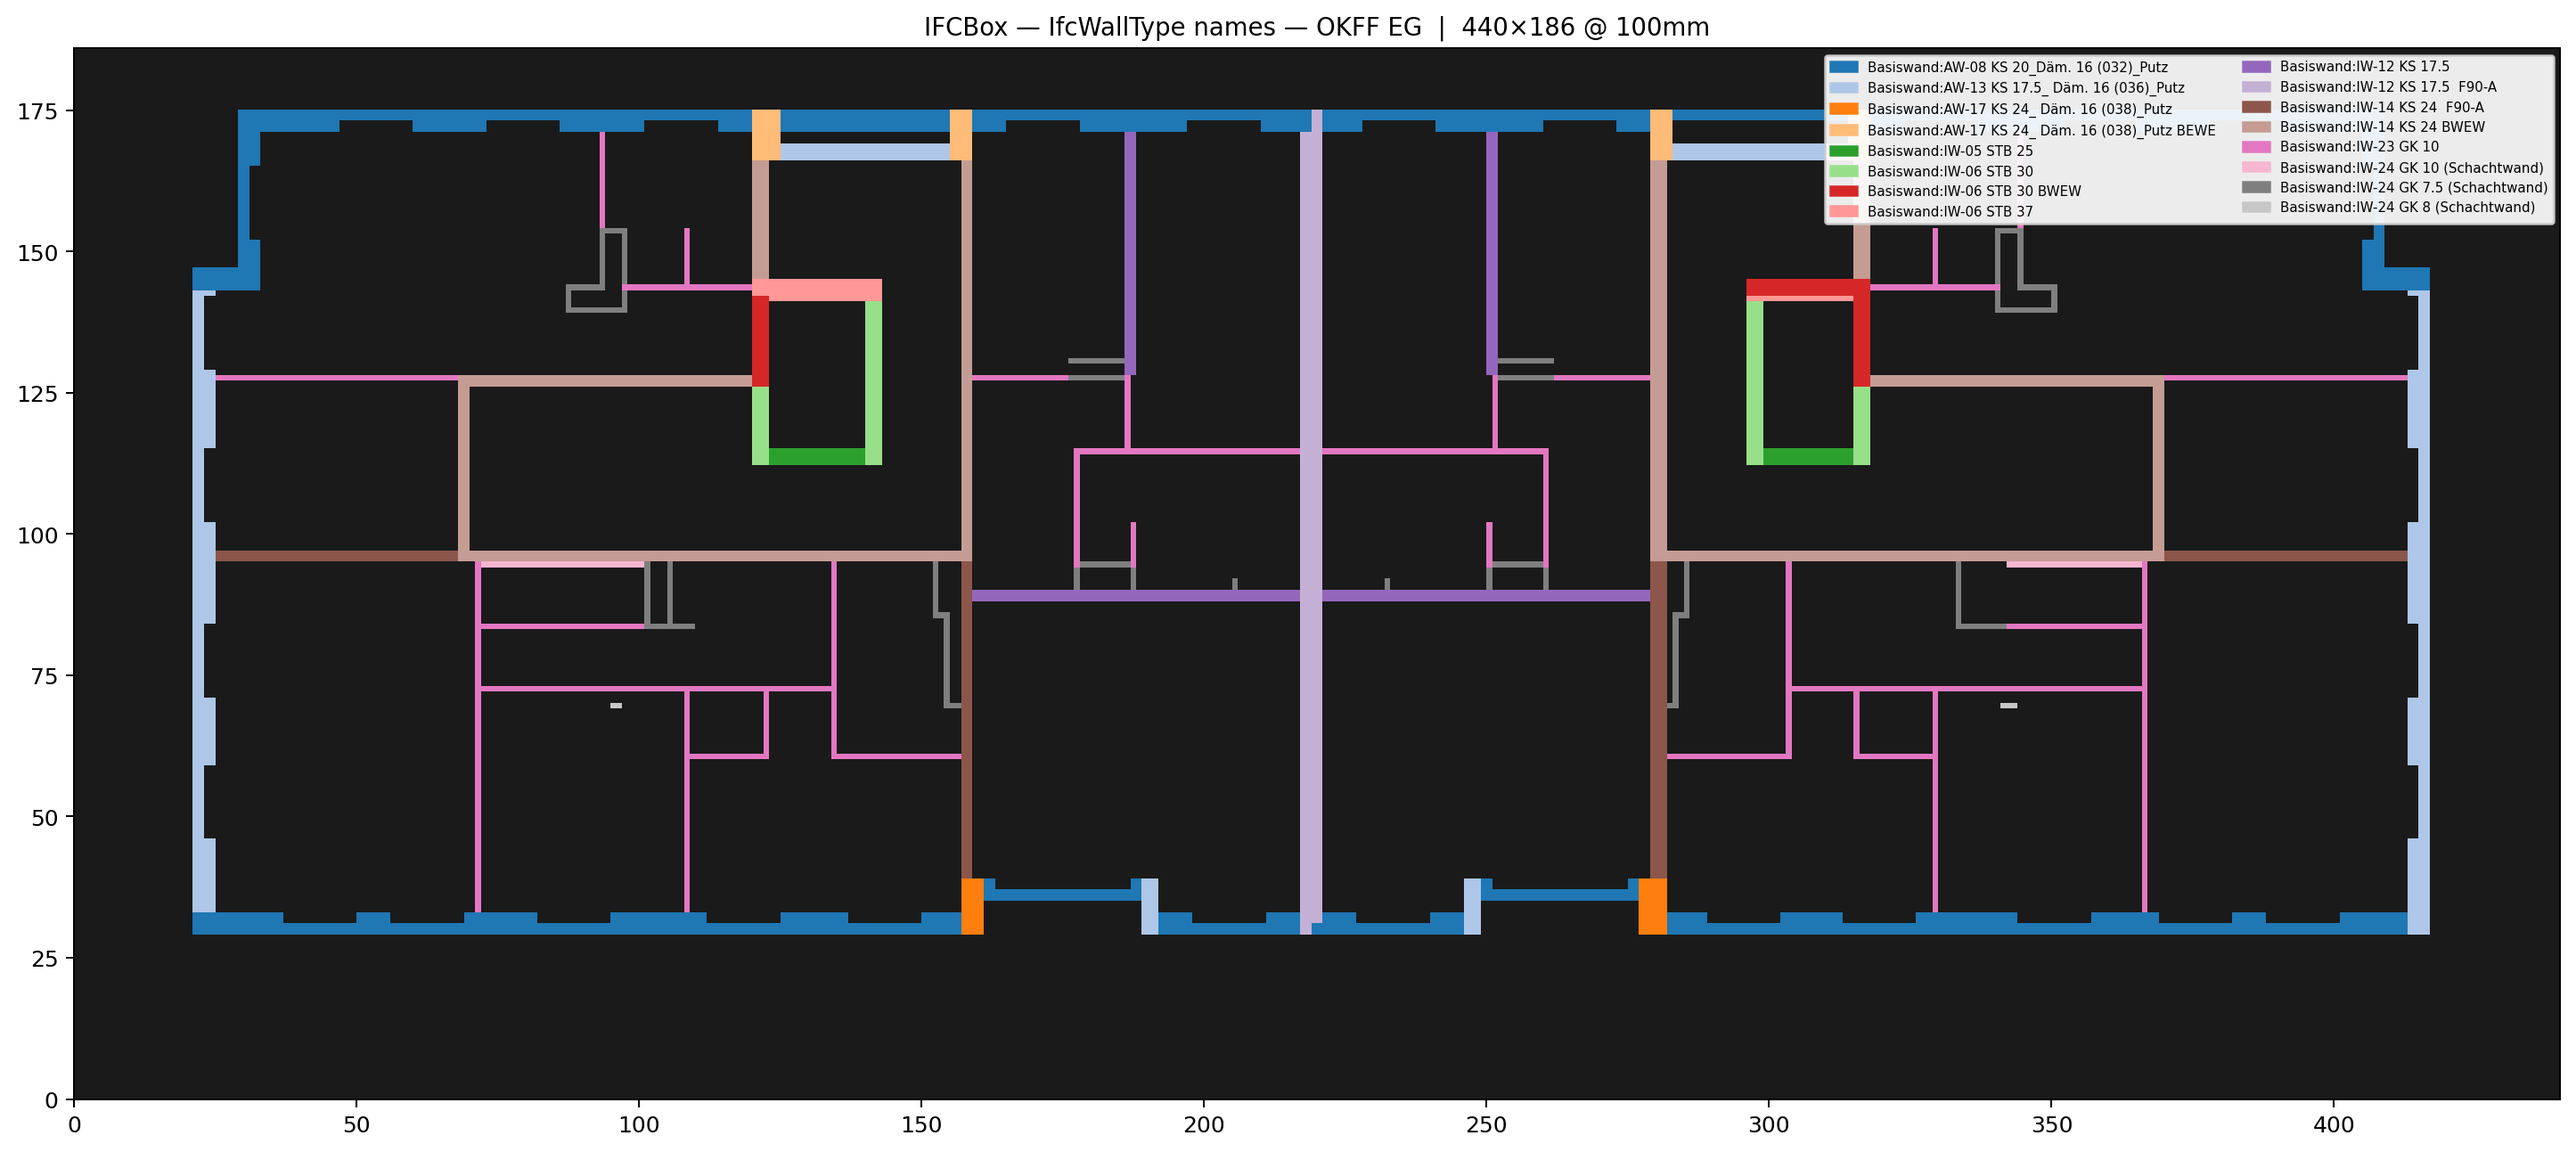
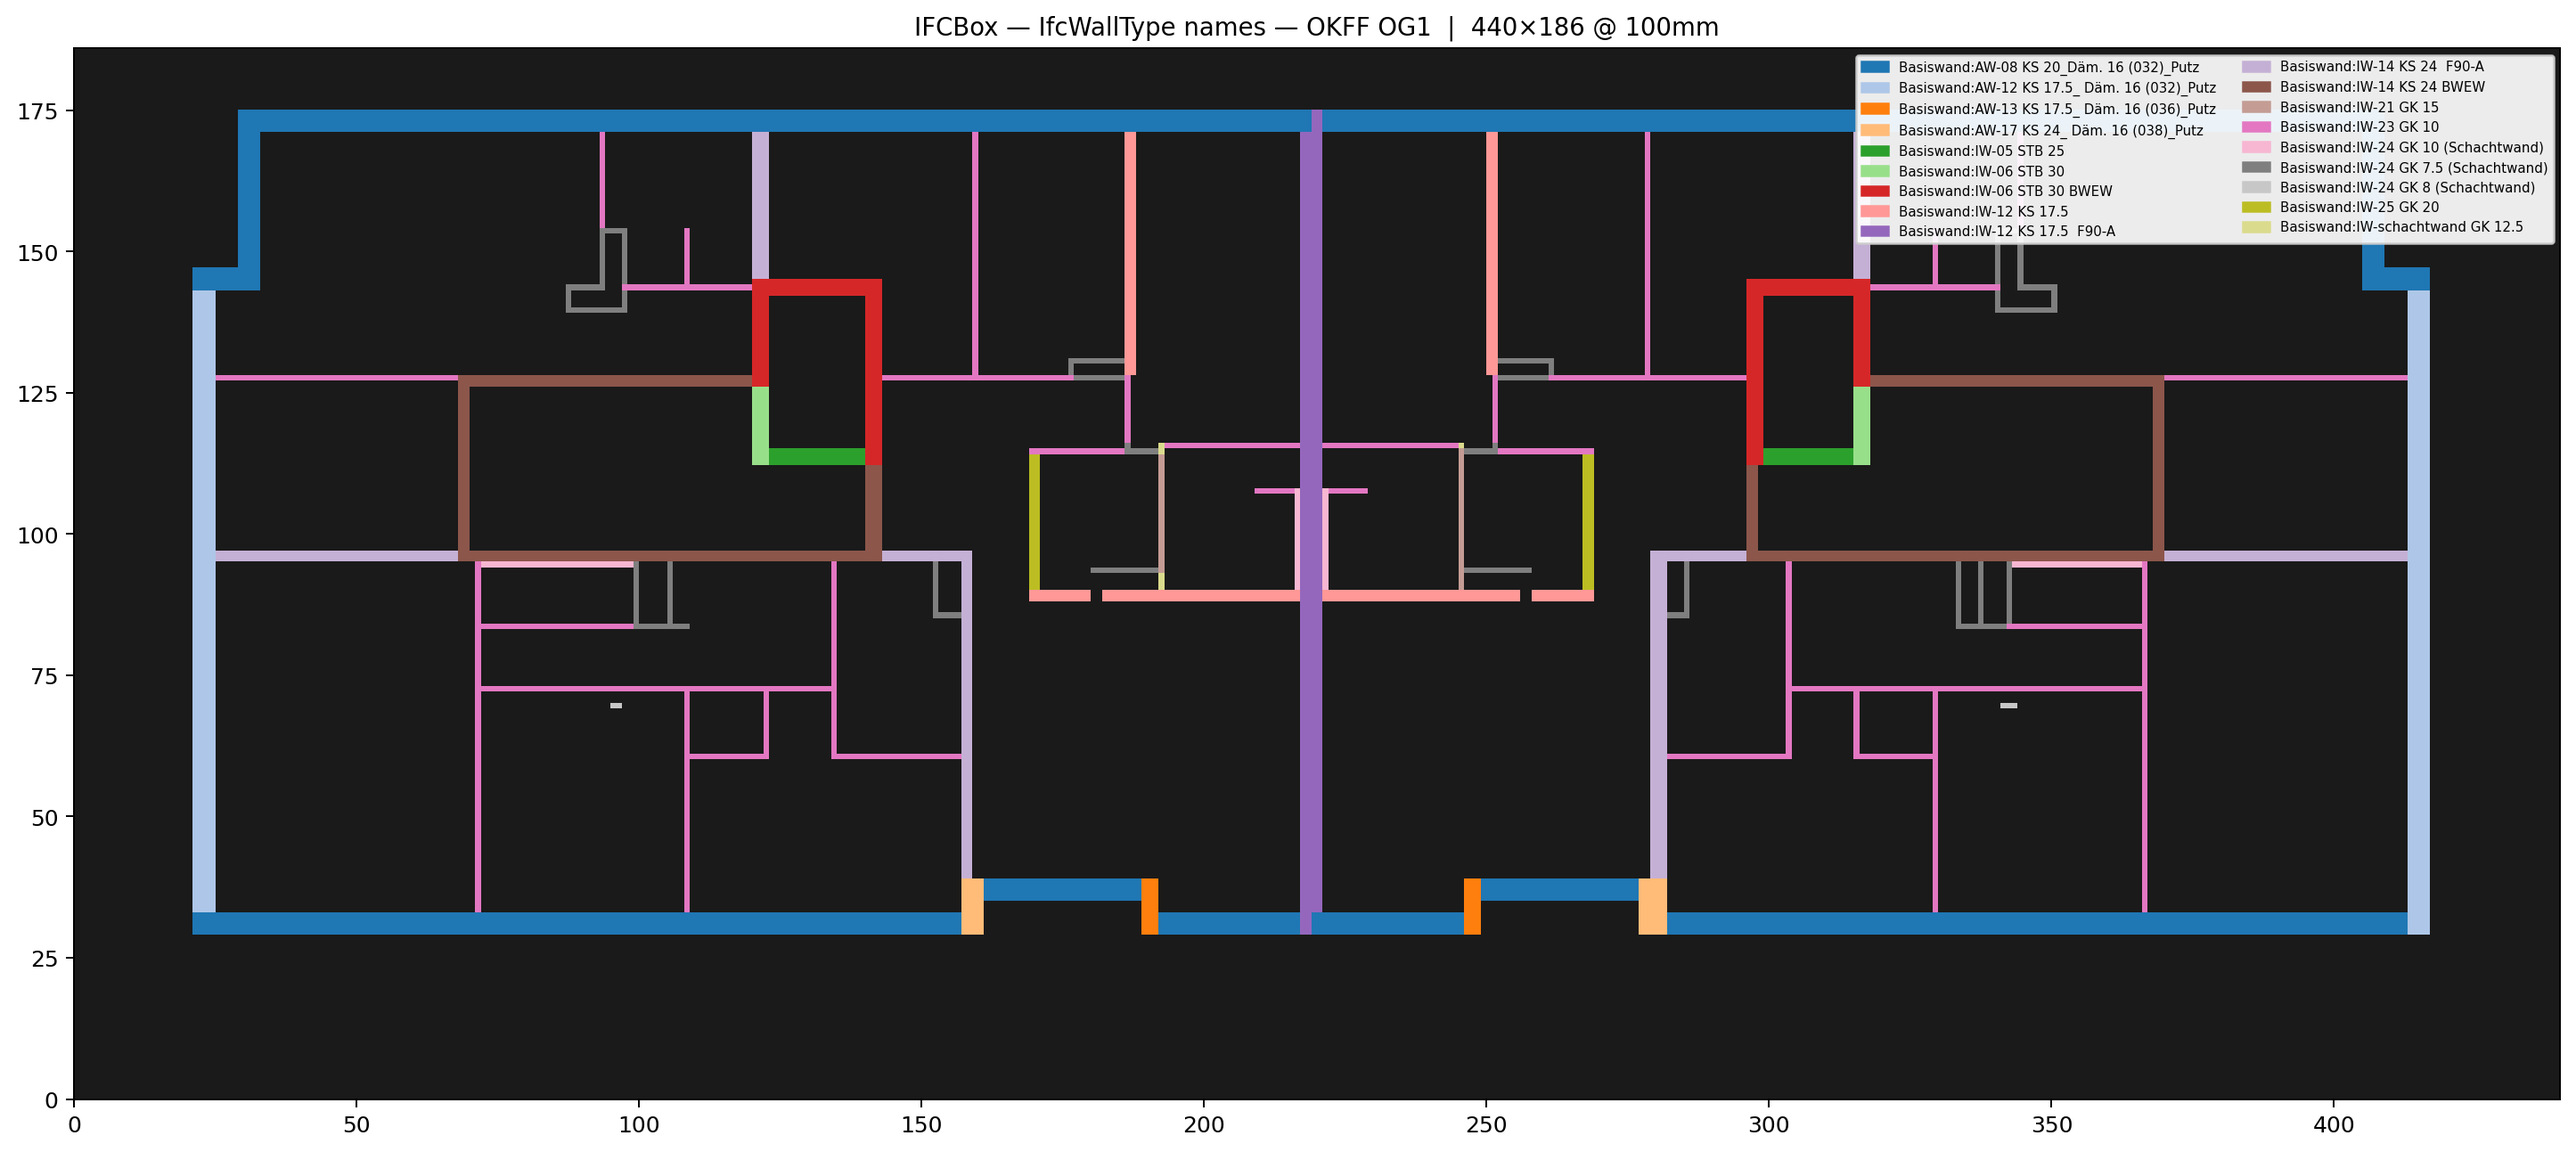
docs: generic framing, no-route hero, wall + per-apartment images, demo plan
- README: hero -> no-route colour-coded floor scene; routed scene moved to the
  routing step; wall colour shown as three images (type / fire rating /
  thickness); new per-apartment demo section (door-adjacency discovery); de-CHW
- docs/architecture.md de-CHW'd
- spec-frontend.md: planned front-end apartment auto-routing demo (Flur ->
  reachable rooms, flood-fill bounded by fire-rated walls) + apartments endpoint
- images: scene-no-route, fire-rating, wall-thickness (new), wall-types +
  demo-routes (regenerated, generic legend)

diff --git a/README.md b/README.md
@@ -1,12 +1,12 @@
-# IFCBox — automatic CHW pipe routing for BIM models
+# IFCBox — automatic pipe routing for BIM models
 
-IFCBox takes an **IFC building model**, lets an MEP engineer pick two (or many) points on a floor, and computes a **draft chilled-water pipe route** that threads through corridors, dodges walls, and prefers door openings — then renders it in an interactive 3D web viewer.
+IFCBox takes an **IFC building model**, lets an MEP engineer pick two (or many) points on a floor, and computes a **draft pipe route** that threads through corridors, dodges walls, and prefers door openings — then renders it in an interactive 3D web viewer.
 
-It's a spatial-intelligence engine (Python) behind a FastAPI backend and a React + three.js front end, deployable as a single Docker image on Render with Cloudflare R2 + Postgres.
+It's a spatial-intelligence engine (Python) behind a FastAPI backend and a React + three.js front end, deployable as a single Docker image on Render with Cloudflare R2 + Postgres. The engine is **discipline-agnostic** — it routes a generic piping system; pressurised distribution (no gravity constraints) is the first focus.
 
-![Routed floor plan](docs/images/route-scene.png)
+![Floor model](docs/images/scene-no-route.png)
 
-> A prepared floor of the test model: walls by IFC type, **green** circulation (Flur), **red** forbidden stairwells (Treppenraum), **yellow** door-crossing zones, room labels, and the **blue** routed pipe from a corridor to a bathroom.
+> A prepared floor of the test model: walls colour-coded by IFC type, **green** circulation (Flur), **red** forbidden stairwells (Treppenraum), **yellow** door-crossing zones, and room labels — the spatial picture the router works from.
 
 - **Live demo:** _deploying to Render — URL TBA_ (gated by a shared app token)
 - **Try it / run it locally:** [docs/USER_GUIDE.md](docs/USER_GUIDE.md)
@@ -16,7 +16,7 @@ It's a spatial-intelligence engine (Python) behind a FastAPI backend and a React
 
 ## Why
 
-Manual pipe routing (getting a line from A to B through a real building) is the most universal, repetitive pain in MEP design. IFCBox targets a **draft / starting-point** route — fast and useful, without taking on construction-readiness liability — for **chilled water (CHW)** as the first discipline (no gravity constraints).
+Manual pipe routing (getting a line from A to B through a real building) is the most universal, repetitive pain in MEP design. IFCBox targets a **draft / starting-point** route — fast and useful, without taking on construction-readiness liability. It's discipline-agnostic; pressurised distribution piping (no gravity constraints) is the first focus.
 
 ---
 
@@ -54,12 +54,37 @@ A\* searches the cost grid with state `(x, y, direction)`: **4-connected, 90° b
 ### 6 · Smooth → pipe mesh
 The voxel path is collapsed to **minimal bend-point waypoints**, transformed back to world coordinates, and extruded into a circular pipe mesh exported as glTF.
 
+![Routed pipe](docs/images/route-scene.png)
+
+> The same floor with a routed pipe (**blue**) from a corridor to a bathroom; the markers are the collapsed bend points.
+
 ### 7 · Multiple targets → shared trunk (Steiner)
-For one source feeding many targets, the first target is routed from the source, then each further target is routed from the **existing network** (multi-source A\* seeding) — producing a shared supply main with branches, like real CHW distribution. Multiple independent "systems" (e.g. one plant room per zone) are supported.
+For one source feeding many targets, the first target is routed from the source, then each further target is routed from the **existing network** (multi-source A\* seeding) — producing a shared supply main with branches, like real distribution piping. Multiple independent "systems" (e.g. one plant room per zone) are supported.
 
-The same per-floor data also drives the viewer's debug overlays — occupancy, the SDF heatmap, and **room-type** shading — and per-wall colour modes (thickness / wall-type / fire-rating, read from the IFC):
+The same per-floor data also drives the viewer's debug overlays — occupancy, the SDF heatmap, and **room-type** shading — and per-wall colour modes read straight from the IFC: **wall type**, **fire rating**, and **thickness**.
 
-![Wall types](docs/images/wall-types.png)
+![Wall type](docs/images/wall-types.png)
+![Wall fire rating](docs/images/fire-rating.png)
+![Wall thickness](docs/images/wall-thickness.png)
+
+> Fire rating in particular reveals the apartment/compartment boundaries (the F-rated walls), which the planned front-end demo uses to bound each apartment.
+
+### Per-apartment routing (the `demo_routes.py` demo)
+
+`demo_routes.py` auto-discovers the apartments on a storey and routes a shared trunk from each apartment's **hallway (Flur)** to all of its rooms — no manual endpoint picking.
+
+![Per-apartment routes](docs/images/demo-routes.png)
+
+> Ground floor: each apartment's Flur (▢, the trunk source) fans out to its rooms (◆) in blue; walls shaded by thickness, stairwells forbidden (red), door-crossing zones yellow.
+
+How it discovers an apartment, purely from the IFC:
+1. **Space footprints** — slice every `IfcSpace` at the floor into a 2D polygon (with a guaranteed-interior representative point as its centroid).
+2. **Door-adjacency graph** — for each `IfcDoor`, sample a point 0.35 m to either side (perpendicular to the wall) and record which two spaces it connects → an edge. Open-plan spaces with no wall between them are linked by a small-gap proximity test.
+3. **Find the hallways** — `IfcSpace`s named like *Flur / Korridor / Diele* (DE) or *corridor / hall* (EN).
+4. **Flood-fill the apartment** — a breadth-first search from each Flur through the door graph collects every room reachable from it; that connected set **is** the apartment.
+5. **Route the trunk** — a shared main from the Flur branches to each room (strict door crossings only; never through stairwells).
+
+> The CLI demo bounds apartments by door **topology**. A planned front-end demo will additionally stop the flood-fill at **fire-rated walls** (the real apartment/compartment boundary) — see [spec-frontend.md](plans/spec-frontend.md).
 
 ---
 

diff --git a/plans/spec-frontend.md b/plans/spec-frontend.md
@@ -169,3 +169,32 @@ Plus the auth dependency + WS token check ([spec-deploy] §7). Picking, markers,
 3. **Camera up-axis** — confirm Z-up handling end-to-end (shell, pipe, markers, overlay) on first integration; flip once at the root if needed.
 4. **Route result vs history** — show only the active route, or overlay multiple past routes? (MVP: active only.)
 5. **Large glb streaming** — if a floor shell is heavy, consider draco compression on export.
+
+---
+
+## 10. Planned — apartment auto-routing demo
+
+A one-click demo that mirrors `demo_routes.py` in the web app: **discover each apartment on a floor and route a trunk from its hallway (Flur) to every room**, with each apartment rendered as its own coloured system. Unlike the CLI demo (which bounds apartments by door topology alone), this version bounds them by **fire-rated walls** — the real apartment/compartment boundary — so the flood-fill can't leak into a neighbour through a shared fire door.
+
+### Why fire-rated walls
+Apartment-separating / corridor walls in this model carry a `Pset_WallCommon.FireRating` (e.g. `F90-A`, `BWEW`). The engine already reads per-element `fire_rating` (`FloorGeometry.elements`, served in `walls.json`). Treating a door set in a fire-rated wall as a **non-traversable boundary** turns "rooms reachable from the Flur" into "rooms in the same apartment".
+
+### Backend
+- **Extract apartment discovery into the library** — move `build_door_adjacency` + Flur detection + BFS out of `demo_routes.py` into `ifcbox/apartments.py` so the API and CLI share it.
+- **Door → host wall → fire rating.** For each `IfcDoor`, resolve its host wall (`IfcRelFillsElement` → `IfcOpeningElement` → `IfcRelVoidsElement` → wall) and read that wall's fire rating. Fallback when the relation is missing: sample the wall voxel(s) under the door against the per-element wall map. Tag each adjacency edge `fire_rated: bool`.
+- **Discovery** = build the door-adjacency graph (edges tagged), find Flur spaces, then **BFS from each Flur, skipping fire-rated edges** → `{flur_id, flur_name, room_ids[]}` per apartment.
+- **Compute at prepare time** (model + geometry already in hand) and persist `apartments.json` next to `walls.json` / `rooms.png`; serve it:
+  `GET /models/{id}/floors/{n}/apartments → [{flur_id, flur_name, room_ids}]`.
+
+### Frontend
+- A **"Route apartments"** action in the route panel: fetch `/apartments`, and for each apartment create a routing **system** (`source` = Flur `RoomAnchor`, `targets` = its rooms as `RoomAnchor`s, `mode = trunk`), then **Route all** — one colour per apartment.
+- Optional: a "highlight apartments" toggle that tints the room-type overlay by apartment-id instead of room type (reuses the overlay-plane plumbing).
+
+### Sequencing
+- [ ] **A-1** `ifcbox/apartments.py` (shared discovery) + door→host-wall→fire-rating; unit-test apartment counts on the test model.
+- [ ] **A-2** prepare writes `apartments.json`; `GET …/apartments` endpoint.
+- [ ] **A-3** front-end "Route apartments" → auto-create systems → Route all.
+
+### Open questions
+- **Fire-door detection reliability** — IFC door↔wall relations vary by exporter; the voxel-sampling fallback needs validating on more models.
+- **Flur-less apartments** — apartments with no space named like a corridor need a fallback seed (e.g. the space containing the entrance door, or the largest space).

diff --git a/docs/architecture.md b/docs/architecture.md
@@ -110,7 +110,7 @@ Grids are plain numpy arrays shaped `[nx, ny]`: `occupancy` (bool), `clearance` 
 - Collapses collinear runs to minimal bend points. Converts voxel indices → site-aligned world XYZ, then (via `SiteTransform.to_world`) back to true world coords for export. `path_length` for reporting.
 
 ### `mesh.py` — waypoints → pipe mesh
-- Extrudes a circular cross-section (cylinder segments + sphere caps) along the waypoints into a single trimesh. Default diameter 100 mm (CHW).
+- Extrudes a circular cross-section (cylinder segments + sphere caps) along the waypoints into a single trimesh. Default diameter 100 mm.
 
 ### `export.py` — outputs
 - `export_json` (waypoints + metadata: diameter, discipline) and `export_gltf` (`pipe.glb`).
